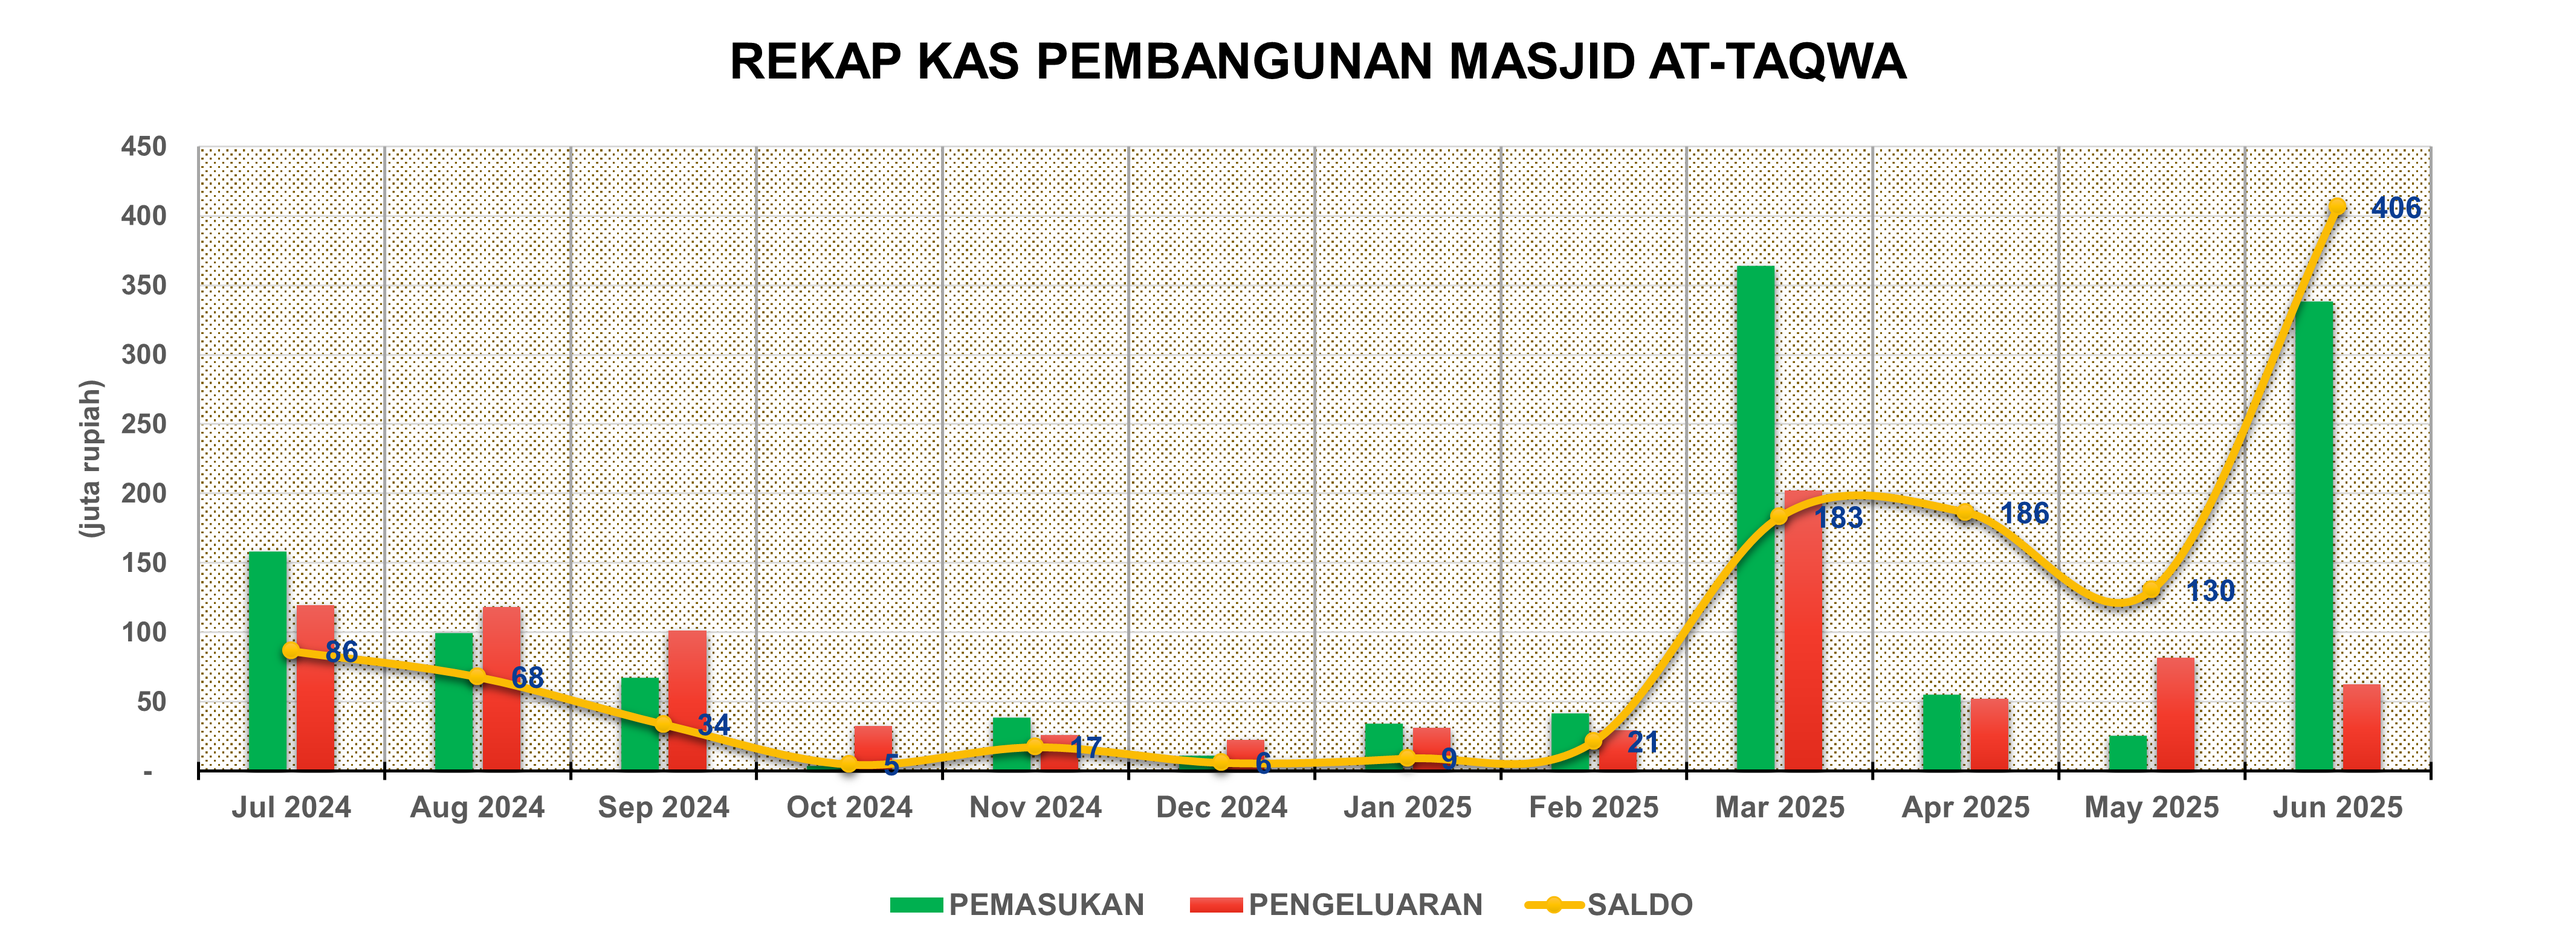
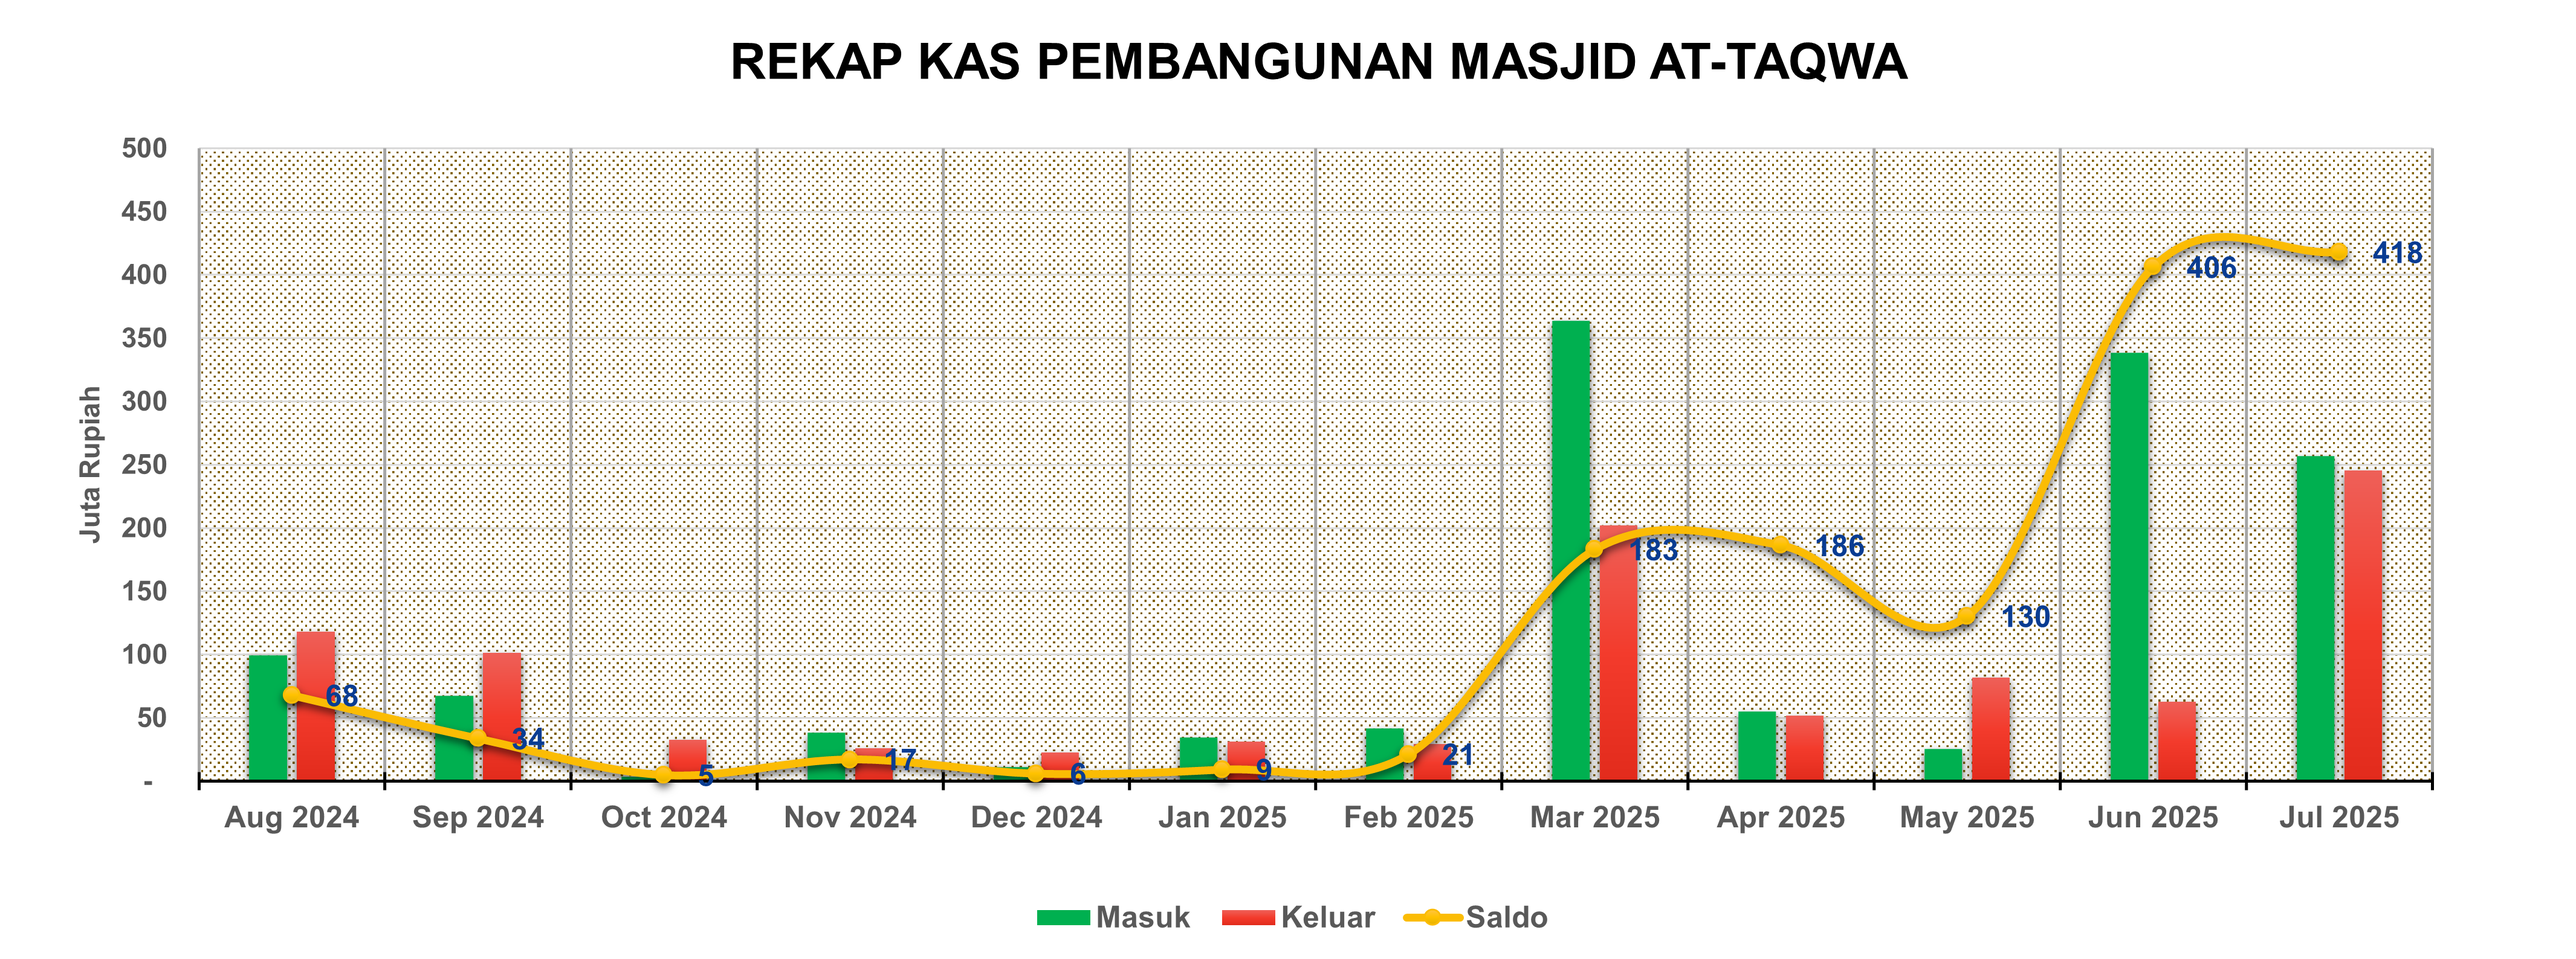
Update keuangan akhir juli

diff --git a/pages/keuangan.html b/pages/keuangan.html
@@ -1,22 +1,22 @@
 <div class="w-full mb-3 text-black">
     <div class="grid grid-cols-1 md:grid-cols-2 gap-20 text-lg">
         <div id="pnl-pembangunan" class="ml-10">
-            <p class="font-bold mb-3 mt-4">KAS PEMBANGUNAN JUNI 2025</p>
+            <p class="font-bold mb-3 mt-4">KAS PEMBANGUNAN JULI 2025</p>
             <table class="w-full">
                 <tr>
-                    <td style="width: 55%;">Saldo Mei 2025</td>
+                    <td style="width: 55%;">Saldo Juni 2025</td>
                     <td style="width: 10px;">:</td>
-                    <td style="width: 35%; text-align: right;"> 130.403.363</td>
+                    <td style="width: 35%; text-align: right;"> 406.233.491</td>
                 </tr>
                 <tr class="mt-2">
                     <td style="width: 55%;">Pemasukan</td>
                     <td style="width: 10px;">:</td>
-                    <td style="width: 35%; text-align: right;"> 338.337.035</td>
+                    <td style="width: 35%; text-align: right;"> 256.975.000</td>
                 </tr>
                 <tr>
                     <td style="width: 55%;">Pengeluaran</td>
                     <td style="width: 10px;">:</td>
-                    <td style="width: 35%; text-align: right;"> 62.506.907</td>
+                    <td style="width: 35%; text-align: right;"> 245.210.000</td>
                 </tr>
                 <tr>
                     <td colspan="3"><hr/></td>
@@ -24,21 +24,21 @@
                  <tr">
                     <td style="width: 55%;">Saldo</td>
                     <td style="width: 10px;">:</td>
-                    <td style="width: 35%; text-align: right;"  class="text-xl font-bold"> 406.233.491</td>
+                    <td style="width: 35%; text-align: right;"  class="text-xl font-bold"> 417.998.491</td>
                 </tr>
             </table>
             <br/>
-            <p class="font-bold mb-3">REKAP KAS PEMBANGUNAN 24 JULI 2025</p>
+            <p class="font-bold mb-3">REKAP KAS PEMBANGUNAN 31 JULI 2025</p>
             <table class="w-full">
                 <tr class="mt-2">
                     <td style="width: 55%;">Pemasukan</td>
                     <td style="width: 10px;">:</td>
-                    <td style="width: 35%; text-align: right;"> 4.519.583.133</td>
+                    <td style="width: 35%; text-align: right;"> 4.627.453.133</td>
                 </tr>
                 <tr>
                     <td style="width: 55%;">Pengeluaran</td>
                     <td style="width: 10px;">:</td>
-                    <td style="width: 35%; text-align: right;"> 4.187.454.642</td>
+                    <td style="width: 35%; text-align: right;"> 4.209.454.642</td>
                 </tr>
                 <tr>
                     <td colspan="3"><hr/></td>
@@ -46,27 +46,27 @@
                  <tr">
                     <td style="width: 55%;">Saldo</td>
                     <td style="width: 10px;">:</td>
-                    <td style="width: 35%; text-align: right;" class="text-xl font-bold"> 332.128.491</td>
+                    <td style="width: 35%; text-align: right;" class="text-xl font-bold"> 417.998.491</td>
                 </tr>
             </table>
         </div>
         <div id=""pnl-takmir class="mr-10">
-            <p class="font-bold mb-3 mt-4 text">KAS TAKMIR JUNI 2025</p>
+            <p class="font-bold mb-3 mt-4 text">KAS TAKMIR JULI 2025</p>
             <table class="w-full">
                 <tr>
-                    <td style="width: 55%;">Saldo Mei 2025</td>
+                    <td style="width: 55%;">Saldo Juni 2025</td>
                     <td style="width: 10px;">:</td>
-                    <td style="width: 35%; text-align: right;"> 53.881.500</td>
+                    <td style="width: 35%; text-align: right;">  74.107.300 </td>
                 </tr>
                 <tr>
                     <td style="width: 55%;">Pemasukan</td>
                     <td style="width: 10px;">:</td>
-                    <td style="width: 35%; text-align: right;"> 22.728.000</td>
+                    <td style="width: 35%; text-align: right;"> 42.834.000</td>
                 </tr>
                 <tr>
                     <td style="width: 55%;">Pengeluaran</td>
                     <td style="width: 10px;">:</td>
-                    <td style="width: 35%; text-align: right;"> 2.502.200</td>
+                    <td style="width: 35%; text-align: right;"> 1.536.850</td>
                 </tr>
                 <tr>
                     <td colspan="3"><hr/></td>
@@ -74,11 +74,11 @@
                  <tr>
                     <td style="width: 55%;">Saldo</td>
                     <td style="width: 10px;">:</td>
-                    <td style="width: 35%; text-align: right;" class="text-xl font-bold"> 74.107.300</td>
+                    <td style="width: 35%; text-align: right;" class="text-xl font-bold"> 115.404.450</td>
                 </tr>
             </table>
             <br/>
-            <p class="font-bold mb-3">KAS SAWAH MASJID</p>
+            <p class="font-bold mb-3">KAS SAWAH MASJID 2025</p>
             <table class="w-full">
                 <tr class="mt-2">
                     <td style="width: 55%;">Pemasukan</td>
@@ -88,7 +88,7 @@
                 <tr>
                     <td style="width: 55%;">Pengeluaran</td>
                     <td style="width: 10px;">:</td>
-                    <td style="width: 35%; text-align: right;"> 21.436.000</td>
+                    <td style="width: 35%; text-align: right;"> 25.786.000</td>
                 </tr>
                 <tr>
                     <td colspan="3"><hr/></td>
@@ -96,7 +96,7 @@
                  <tr">
                     <td style="width: 55%;">Saldo</td>
                     <td style="width: 10px;">:</td>
-                    <td style="width: 35%; text-align: right;" class="text-xl font-bold"> 8.414.000</td>
+                    <td style="width: 35%; text-align: right;" class="text-xl font-bold"> 4.064.000</td>
                 </tr>
             </table>
         </div>
